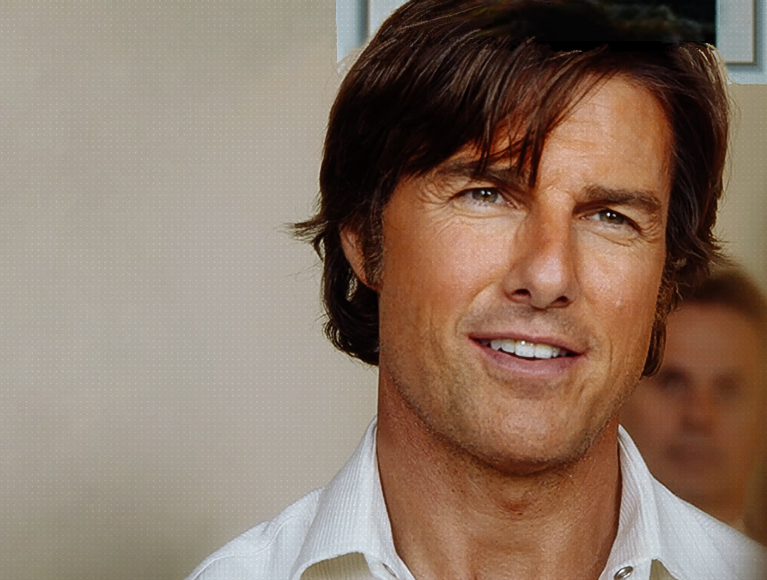
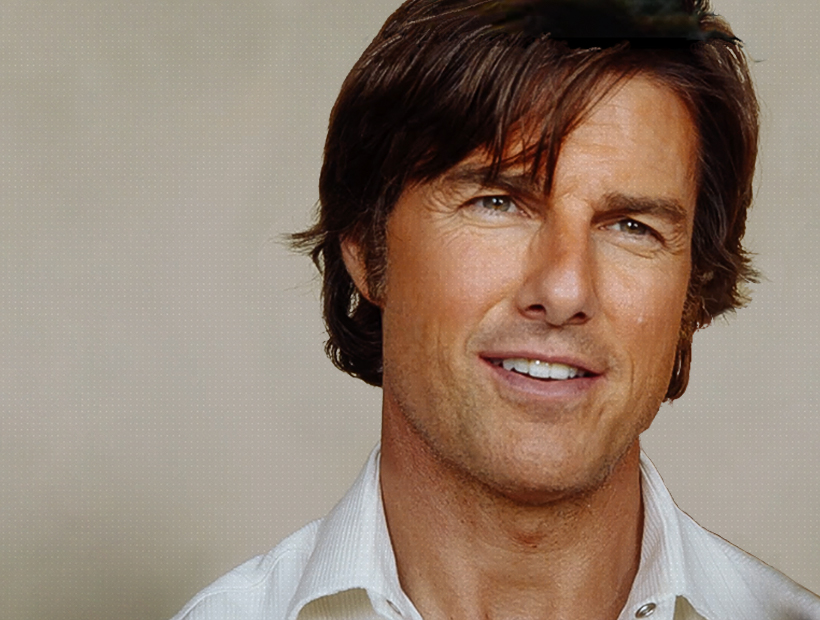
Removing background on Tom. Fixing mobile nav bug

diff --git a/src/data/settings.js b/src/data/settings.js
@@ -22,7 +22,7 @@ var settings = {
 			{ id : "story6fg", src : data.story.section6.foregroundImage, crossOrigin : true },
 			{ id : "story7bg", src : data.story.section7.backgroundImage, crossOrigin : true },
 			// Cast & Crew Section
-			{ id : "tomcruise", src : "img/_castncrew/cnc_tomcruise.jpg", crossOrigin : true },
+			{ id : "tomcruise", src : "img/_castncrew/cnc_tomcruise2.jpg", crossOrigin : true },
 			{ id : "domhallgleeson", src : "img/_castncrew/cnc_domhallgleeson.jpg", crossOrigin : true },
 			{ id : "sarahwright", src : "img/_castncrew/cnc_sarahwright.jpg", crossOrigin : true },
 			{ id : "dougliman", src : "img/_castncrew/cnc_dougliman.jpg", crossOrigin : true },

diff --git a/src/styles/main.less b/src/styles/main.less
@@ -11800,6 +11800,9 @@ section #story7 {
 @media only screen and (min-width: 992px) {
 
 
+    #story-wrapper {
+        z-index: 2 !important;
+    }
 
     #tt {
         max-height:33vh
@@ -12512,6 +12515,10 @@ section #story7 {
 @media only screen and (max-width: 767px) {
     #rotate {
         display:none
+    }
+
+    #story-wrapper {
+        z-index: 2 !important;
     }
 
     #splash {

diff --git a/src/styles/splash.less b/src/styles/splash.less
@@ -1148,6 +1148,7 @@
     &--left {
         .align-items(center);
         max-width: 50%;
+        left: 4%;
         .cnc_quote_mobile {
             .align-items(center);   
             p {
